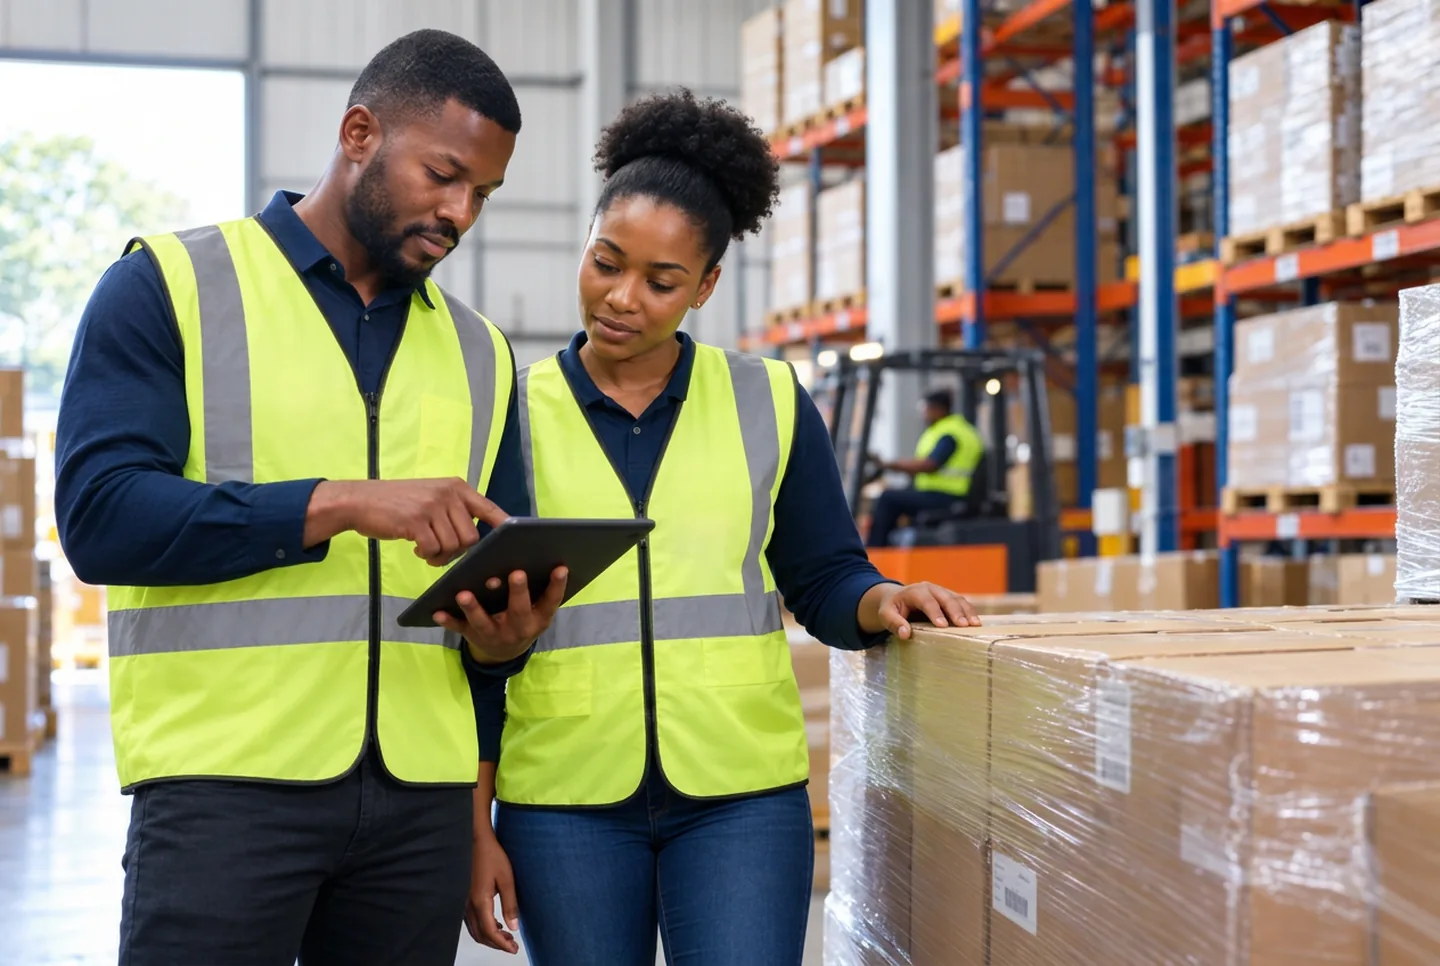
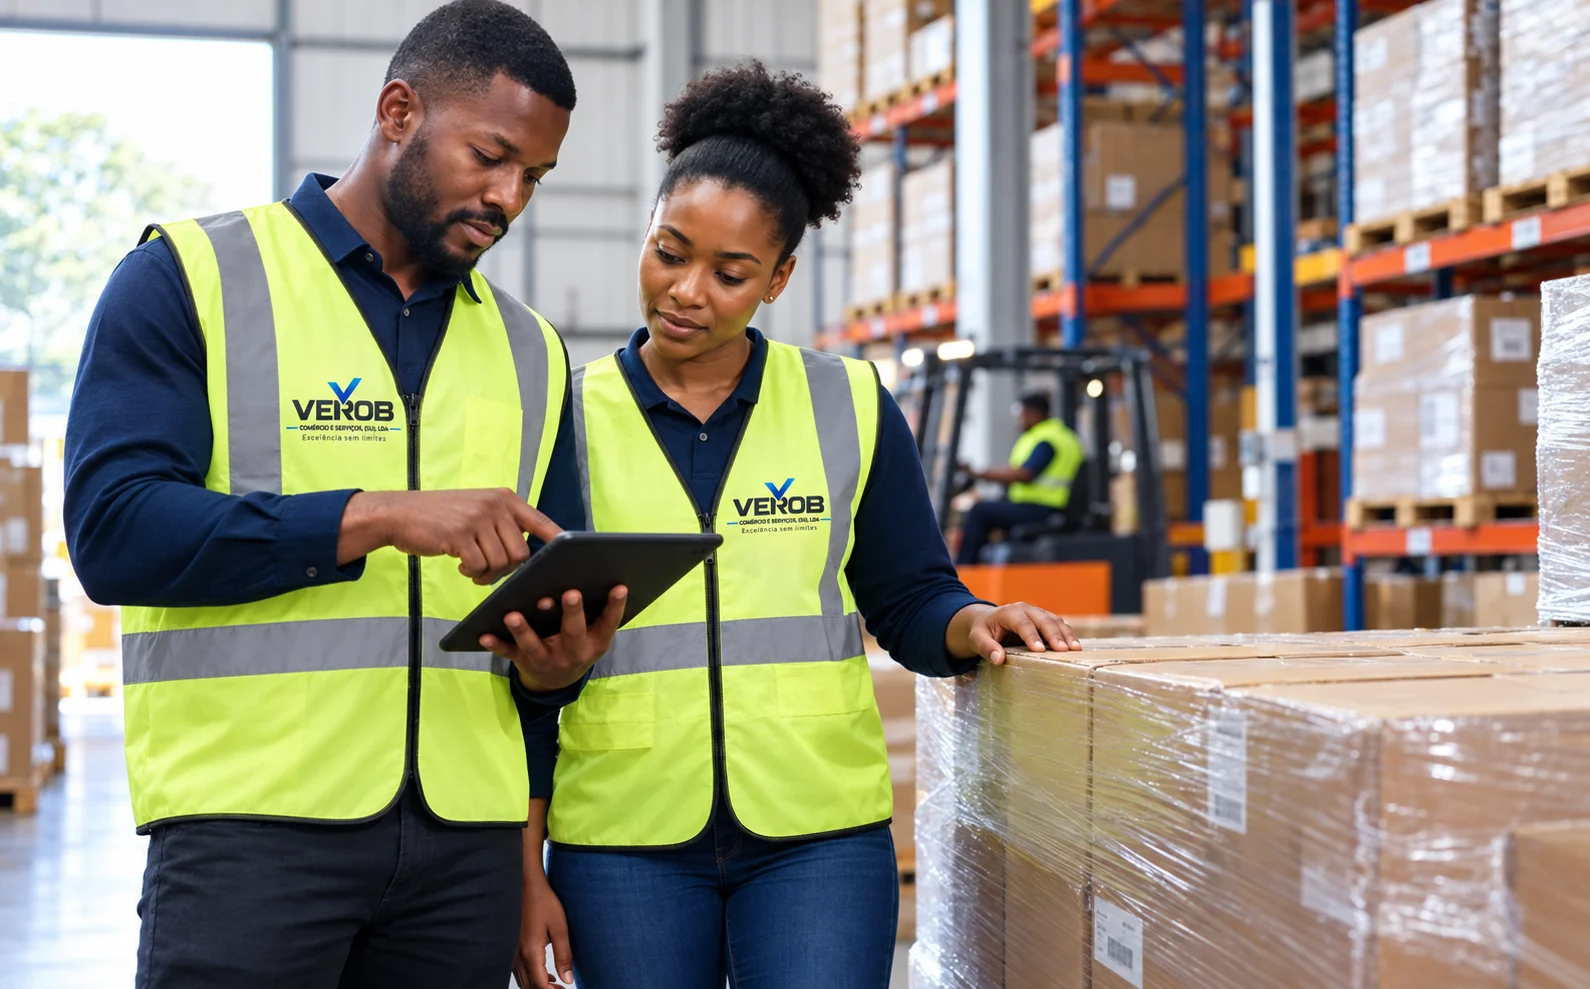
Changes

diff --git a/src/routes/index.tsx b/src/routes/index.tsx
@@ -30,7 +30,7 @@ function Index(){
    <section id="servicos" className="section-space bg-secondary"><div className="site-container"><div className="flex flex-col md:flex-row justify-between md:items-end gap-5 mb-8"><div><p className="eyebrow">O que fazemos</p><h2 className="section-title">10 serviços.<br/>Um parceiro para diferentes necessidades.</h2></div><p className="text-muted-foreground max-w-xs text-sm">Explore as soluções da VEROB e selecione os serviços que fazem parte do seu próximo projeto.</p></div>
      <div className="mb-8 bg-card border border-border rounded-md p-5"><div className="flex flex-wrap justify-between gap-2 text-xs mb-3"><span><strong className="block text-sm font-display">Explore as nossas soluções</strong><span className="text-muted-foreground">O seu progresso de exploração</span></span><span className="text-primary font-semibold self-end" aria-live="polite">Serviços explorados: {explored.length} de {total} · {pct}%</span></div><div className="progress-track" role="progressbar" aria-label="O seu progresso de exploração" aria-valuemin={0} aria-valuemax={100} aria-valuenow={pct}><div className="progress-fill dynamic" style={{width:`${pct}%`}}/></div>{explored.length===total?<a href="#pedido" className="mt-3 text-primary text-xs font-semibold flex items-center gap-2">Já conhece as nossas soluções. Vamos preparar o seu pedido?<ArrowRight size={16}/></a>:<p className="mt-3 text-xs text-muted-foreground">Abra os detalhes de cada serviço para avançar. A exploração completa é opcional.</p>}</div>
      <div className="flex flex-wrap gap-2 mb-8" role="group" aria-label="Filtrar serviços">{['Todos',...categories].map(c=><Button key={c} size="sm" variant={filter===c?'default':'outline'} aria-pressed={filter===c} onClick={()=>setFilter(c)}>{c}</Button>)}</div>
-     <div className="grid sm:grid-cols-2 lg:grid-cols-3 gap-5">{shown.map(s=>{const i=services.indexOf(s);const sel=selected.includes(s.name);return <article key={s.id} className={`service-card ${expanded===s.id?'expanded':''} ${sel?'selected':''}`}><figure className="service-media"><img src={s.image} alt={s.imageAlt} loading="lazy" width={960} height={600}/><figcaption>Imagem ilustrativa</figcaption></figure><div className="flex justify-between items-center mb-6"><span className="service-icon"><s.icon size={24}/></span><span className="text-xs text-muted-foreground font-semibold">{String(i+1).padStart(2,'0')}</span></div><Button variant="ghost" className="service-toggle" aria-expanded={expanded===s.id} aria-controls={`detail-${s.id}`} onClick={()=>explore(s.id)}><h3 className="text-lg font-bold leading-snug">{s.name}</h3>{expanded===s.id?<ChevronDown className="text-primary mt-1 shrink-0"/>:<Plus className="text-primary mt-1 shrink-0"/>}</Button><p className="text-xs text-muted-foreground mt-3 mb-4">{s.short}</p>{expanded===s.id&&<div className="service-detail" id={`detail-${s.id}`}><p className="text-xs text-muted-foreground mb-3">{s.description}</p>{s.details&&<ul className="text-xs mb-4 space-y-1">{s.details.map(d=><li key={d} className="flex gap-2 items-center"><Check size={12} className="text-primary"/>{d}</li>)}</ul>}</div>}<Button variant={sel?'default':'brand'} className="w-full text-xs px-2" aria-pressed={sel} onClick={()=>toggleSel(s.name)}>{sel?<Check/>:<Plus/>}{sel?'Adicionado ao pedido':'Adicionar ao meu pedido'}</Button><div className="flex items-center justify-between mt-3 gap-2"><Button variant="link" asChild className="px-0 text-xs justify-start h-auto whitespace-normal text-left"><a href={whatsappUrl(serviceMessage(s.name))} target="_blank" rel="noopener noreferrer">{s.action}<ArrowUpRight/></a></Button>{explored.includes(s.id)&&<span className="text-xs text-success flex gap-1 items-center shrink-0"><Check size={12}/>Explorado</span>}</div></article>;})}</div>
+     <div className="grid sm:grid-cols-2 lg:grid-cols-3 gap-5">{shown.map(s=>{const i=services.indexOf(s);const sel=selected.includes(s.name);return <article key={s.id} className={`service-card ${expanded===s.id?'expanded':''} ${sel?'selected':''}`}>{s.id==='consultoria'?<figure className="service-media team-media"><button type="button" className="team-open" onClick={()=>setTeamOpen(true)} aria-label="Ver fotografia completa da equipa"><img src={s.image} alt={s.imageAlt} loading="lazy" width={1600} height={732}/></button></figure>:<figure className="service-media"><img src={s.image} alt={s.imageAlt} loading="lazy" width={960} height={600}/><figcaption>Imagem ilustrativa</figcaption></figure>}<div className="flex justify-between items-center mb-6"><span className="service-icon"><s.icon size={24}/></span><span className="text-xs text-muted-foreground font-semibold">{String(i+1).padStart(2,'0')}</span></div><Button variant="ghost" className="service-toggle" aria-expanded={expanded===s.id} aria-controls={`detail-${s.id}`} onClick={()=>explore(s.id)}><h3 className="text-lg font-bold leading-snug">{s.name}</h3>{expanded===s.id?<ChevronDown className="text-primary mt-1 shrink-0"/>:<Plus className="text-primary mt-1 shrink-0"/>}</Button><p className="text-xs text-muted-foreground mt-3 mb-4">{s.short}</p>{expanded===s.id&&<div className="service-detail" id={`detail-${s.id}`}><p className="text-xs text-muted-foreground mb-3">{s.description}</p>{s.details&&<ul className="text-xs mb-4 space-y-1">{s.details.map(d=><li key={d} className="flex gap-2 items-center"><Check size={12} className="text-primary"/>{d}</li>)}</ul>}</div>}<Button variant={sel?'default':'brand'} className="w-full text-xs px-2" aria-pressed={sel} onClick={()=>toggleSel(s.name)}>{sel?<Check/>:<Plus/>}{sel?'Adicionado ao pedido':'Adicionar ao meu pedido'}</Button><div className="flex items-center justify-between mt-3 gap-2"><Button variant="link" asChild className="px-0 text-xs justify-start h-auto whitespace-normal text-left"><a href={whatsappUrl(serviceMessage(s.name))} target="_blank" rel="noopener noreferrer">{s.action}<ArrowUpRight/></a></Button>{explored.includes(s.id)&&<span className="text-xs text-success flex gap-1 items-center shrink-0"><Check size={12}/>Explorado</span>}</div></article>;})}</div>
      {picked.length>0&&<div className="selection-bar" aria-live="polite"><strong className="text-sm">{picked.length} {picked.length===1?'serviço selecionado':'serviços selecionados'}</strong><div className="flex flex-wrap gap-2 flex-1">{picked.map(n=><span key={n} className="selection-chip">{n}<button type="button" aria-label={`Remover ${n}`} onClick={()=>toggleSel(n)}><X size={12}/></button></span>)}</div><Button variant="brand" size="sm" onClick={goPedido}>Montar o meu pedido<ArrowRight/></Button></div>}
     </div></section>
     <section id="valores" className="values-section section-space"><div className="site-container"><div className="flex flex-col md:flex-row justify-between md:items-end gap-5 mb-12"><div><p className="eyebrow">A nossa forma de estar</p><h2 className="section-title">Os valores que nos movem</h2></div><p className="text-on-dark-muted text-sm">Princípios que dão sentido ao que fazemos.</p></div><div className="grid grid-cols-2 md:grid-cols-4 gap-8">{[{name:'Qualidade',icon:ShieldCheck,text:'Um valor que orienta a nossa forma de trabalhar.'},{name:'Confiança',icon:Handshake,text:'A base das relações que procuramos construir.'},{name:'Compromisso',icon:Settings,text:'A atenção dedicada a cada necessidade apresentada.'},{name:'Resultados',icon:TrendingUp,text:'O foco no objetivo de cada projeto e fornecimento.'}].map(v=><div className="value-item" key={v.name}><v.icon size={30} strokeWidth={1.5}/><h3 className="text-lg font-bold mb-3">{v.name}</h3><p>{v.text}</p></div>)}</div></div></section>

diff --git a/src/lib/verob.ts b/src/lib/verob.ts
@@ -7,7 +7,7 @@ import img_consumiveis from '@/assets/svc-consumiveis.webp';
 import img_mobiliario from '@/assets/svc-mobiliario.webp';
 import img_quimicos from '@/assets/svc-quimicos.webp';
 import img_comercio from '@/assets/svc-comercio.webp';
-import img_consultoria from '@/assets/svc-consultoria.webp';
+import img_consultoria from '@/assets/svc-equipa.webp';
 import { Building2, BriefcaseBusiness, ShieldCheck, Cog, BrickWall, Printer, Armchair, FlaskConical, Globe, ClipboardList } from 'lucide-react';
 export const company = {
   name: 'VEROB — Comércio e Serviços, (SU), LDA',
@@ -45,7 +45,7 @@ export const services: Service[] = [
   { id: 'comercio', name: 'Comércio geral, importação e exportação', category: 'Indústria e negócios', icon: Globe, short: 'Grosso, retalho, importação e exportação.', description: 'Comércio a grosso e a retalho, importação e exportação de bens, conforme as necessidades comerciais apresentadas.', action: 'Apresentar pedido comercial' },
   { id: 'consultoria', name: 'Consultoria, apoio administrativo e logística', category: 'Indústria e negócios', icon: ClipboardList, short: 'Apoio à organização e operação.', description: 'Consultoria empresarial, apoio administrativo e gestão de logística para diferentes necessidades de organização e operação.', details: ['Consultoria empresarial', 'Apoio administrativo', 'Gestão de logística'], action: 'Solicitar apoio empresarial' },
 ];
-const imgs: Record<string,[string,string]> = {'construcao':[img_construcao,'Equipa com coletes VEROB a nivelar betão numa obra — imagem ilustrativa'],'escritorio':[img_escritorio,'Profissional a organizar materiais de escritório numa estante — imagem ilustrativa'],'individuais':[img_individuais,'Profissionais com coletes VEROB a verificar capacetes, luvas, óculos e botas de proteção — imagem ilustrativa'],'equipamentos':[img_equipamentos,'Técnico com óculos de proteção a inspecionar equipamento — imagem ilustrativa'],'materiais-construcao':[img_materiais,'Profissionais com coletes VEROB a conferir cimento, tijolos e varões — imagem ilustrativa'],'consumiveis':[img_consumiveis,'Profissional a verificar um tinteiro junto a uma impressora — imagem ilustrativa'],'mobiliario':[img_mobiliario,'Profissionais a organizar secretárias e cadeiras num escritório moderno — imagem ilustrativa'],'quimicos':[img_quimicos,'Técnico com proteção a verificar bidões selados num ambiente industrial — imagem ilustrativa'],'comercio':[img_comercio,'Profissionais a conferir mercadorias paletizadas num armazém de logística — imagem ilustrativa'],'consultoria':[img_consultoria,'Dois profissionais com coletes VEROB — imagem ilustrativa']};
+const imgs: Record<string,[string,string]> = {'construcao':[img_construcao,'Equipa com coletes VEROB a nivelar betão numa obra — imagem ilustrativa'],'escritorio':[img_escritorio,'Profissional a organizar materiais de escritório numa estante — imagem ilustrativa'],'individuais':[img_individuais,'Profissionais com coletes VEROB a verificar capacetes, luvas, óculos e botas de proteção — imagem ilustrativa'],'equipamentos':[img_equipamentos,'Técnico com óculos de proteção a inspecionar equipamento — imagem ilustrativa'],'materiais-construcao':[img_materiais,'Profissionais com coletes VEROB a conferir cimento, tijolos e varões — imagem ilustrativa'],'consumiveis':[img_consumiveis,'Profissional a verificar um tinteiro junto a uma impressora — imagem ilustrativa'],'mobiliario':[img_mobiliario,'Profissionais a organizar secretárias e cadeiras num escritório moderno — imagem ilustrativa'],'quimicos':[img_quimicos,'Técnico com proteção a verificar bidões selados num ambiente industrial — imagem ilustrativa'],'comercio':[img_comercio,'Dois profissionais com coletes VEROB a conferir mercadorias num armazém — imagem ilustrativa'],'consultoria':[img_consultoria,'Equipa VEROB: quatro profissionais com coletes VEROB']};
 for (const s of services) { const m = imgs[s.id]; if (m) { s.image = m[0]; s.imageAlt = m[1]; } }
 export const navigation = [{ id: 'inicio', label: 'Início' }, { id: 'sobre', label: 'Sobre' }, { id: 'servicos', label: 'Serviços' }, { id: 'valores', label: 'Valores' }, { id: 'contactos', label: 'Contactos' }];
 export type PortfolioItem = { id: string; category: string; image: string; caption: string };
